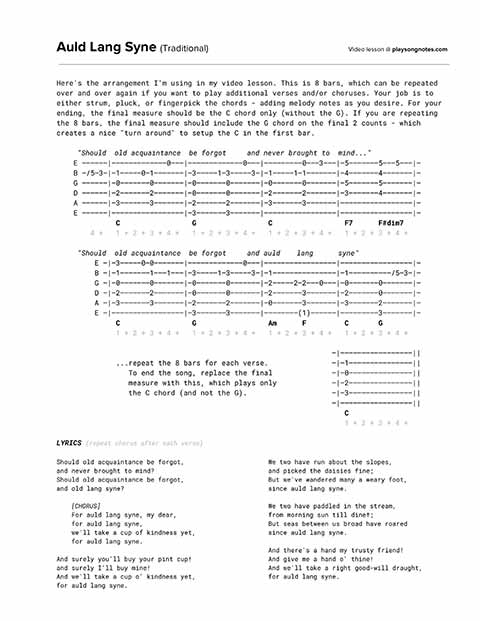
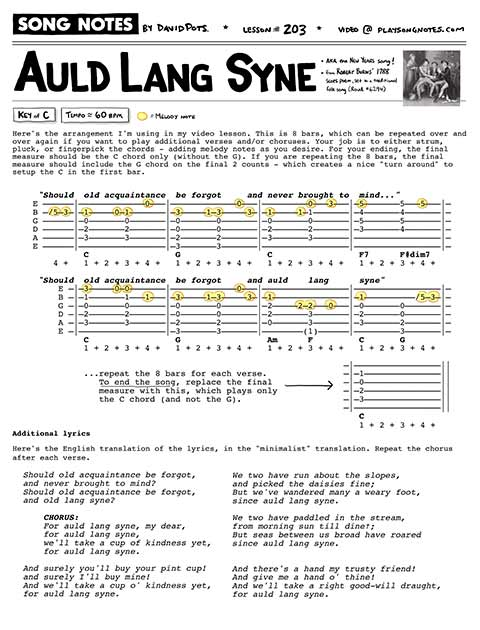
Adds 203 pdf

Changed region(s): [[0.0, 0.0, 0.9688, 0.9485], [0.1875, 0.5813, 0.5938, 0.6425]]

diff --git a/_includes/latest-uploads.html b/_includes/latest-uploads.html
@@ -4,6 +4,16 @@
   <!-- <li><a class="underline" href="________"><strong>___________</strong></a> by __________<br /><em>________</em></li> -->
 
   <li class="homepage-latest-gallery">
+    <a style="" href="/lessons/203">
+      <div style="background-image: url(/images/pdfs/preview/203.jpg);" class="pdf-thumbnail"></div>
+      <h3>Auld Lang Syne</h3>
+      <h4>traditional New Years song</h4>
+      <h5>Dec 30, 2020 • Lesson #203</h5>
+      <h6>Watch Video & Get PDF »</h6>
+    </a>
+  </li>
+
+  <li class="homepage-latest-gallery">
     <a style="" href="/lessons/98">
       <div style="background-image: url(/images/pdfs/preview/98.jpg);" class="pdf-thumbnail"></div>
       <h3>Sunday Morning Coming Down</h3>
@@ -153,7 +163,7 @@
   </a>
 </li>
 
-<li class="homepage-latest-gallery">
+<!-- <li class="homepage-latest-gallery">
   <a style="" href="/lessons/331">
     <div style="background-image: url(/images/pdfs/preview/331.jpg);" class="pdf-thumbnail"></div>
     <h3>Tennessee Whiskey</h3>
@@ -161,7 +171,7 @@
     <h5>Oct 10, 2020 • Lesson #331</h5>
     <h6>Watch Video & Get PDF »</h6>
   </a>
-</li>
+</li> -->
 
 
 

diff --git a/_lessons/203 [Traditional] Auld Lang Syne.md b/_lessons/203 [Traditional] Auld Lang Syne.md
@@ -1,8 +1,8 @@
 ---
 layout: song
 
-title: '"Auld Land Syng" (New Years Song)'
-song_title:  Auld Land Syng
+title: '"Auld Lang Syne" (New Years Song)'
+song_title:  Auld Lang Syne
 artist: (traditional)
 year: 1788
 category: full_song
